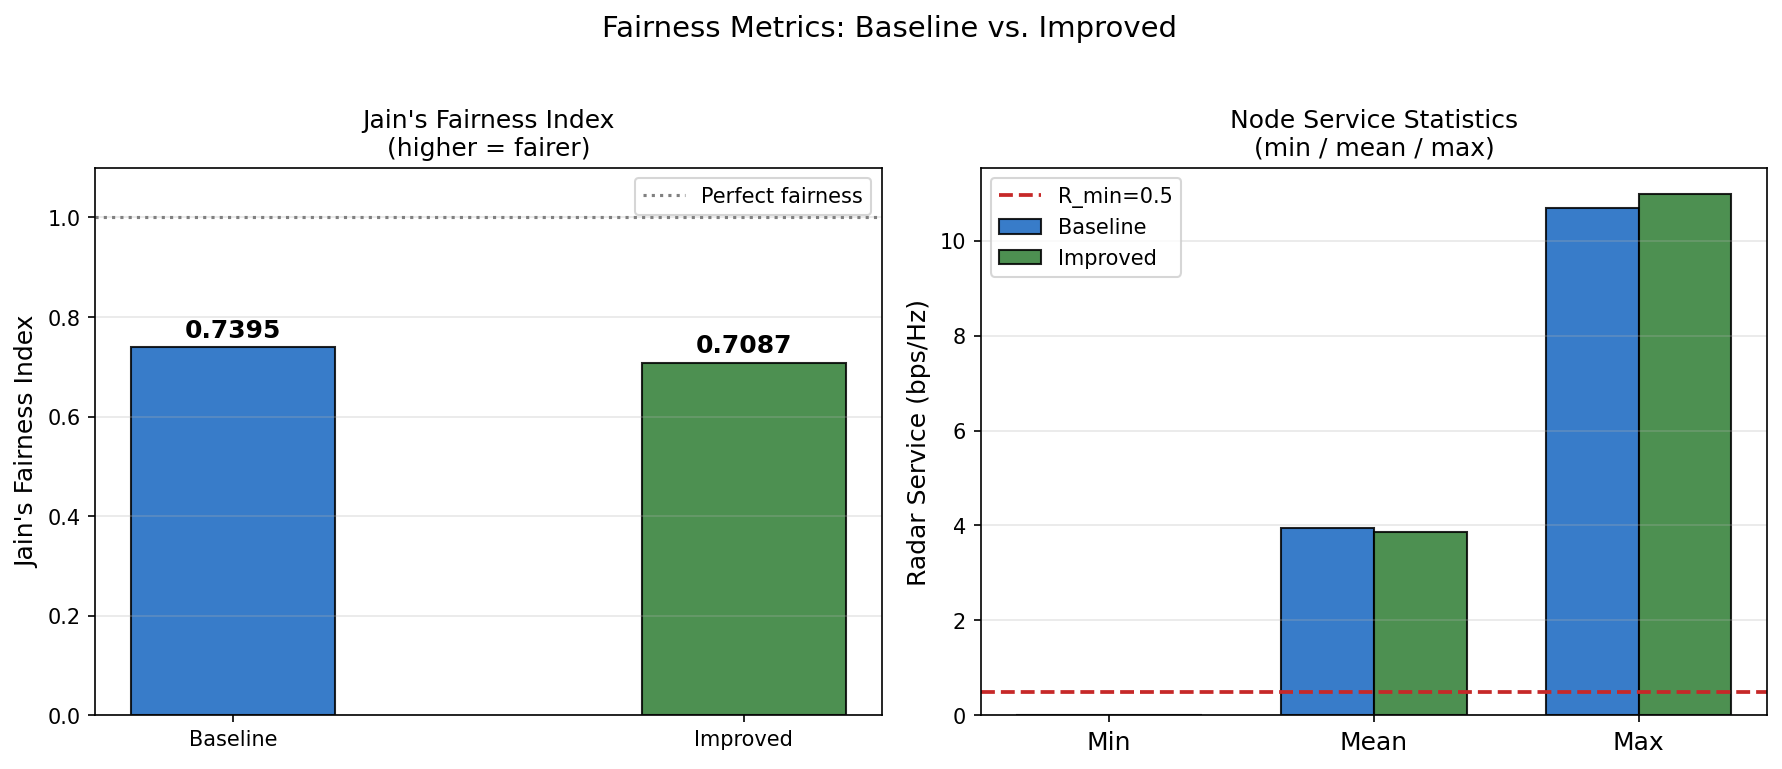
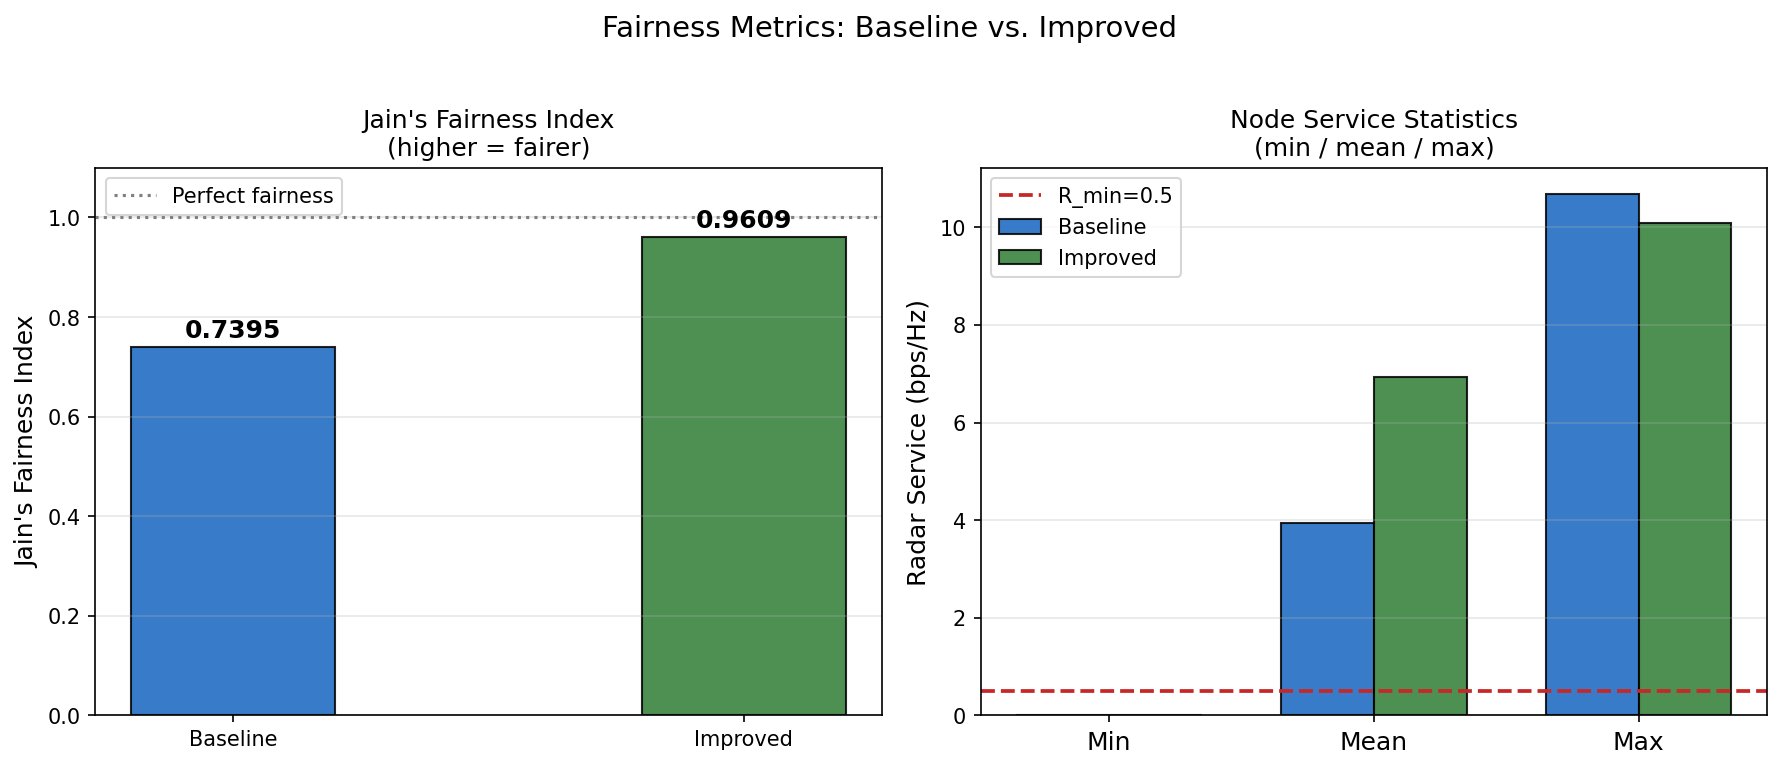
enhanced improved algorithm

diff --git a/optimization_improved.py b/optimization_improved.py
@@ -307,53 +307,69 @@ def solve_power_multiobjective(uav, env, omega, b, hk_com, hk_rad, hc,
 # ─────────────────────────────────────────────────────────────────────────────
 
 def _smooth_trajectory(pos_targets, uav, env, omega, b, node_service=None, R_min=0.5):
+    """
+    Per-slot independent waypoint nudge (no velocity-cascade).
+
+    Each ISAC slot is nudged independently toward its assigned node in XY.
+    Altitude is only lowered for genuinely deprived nodes (urgency > 0) to
+    improve h_rad ∝ d^{-4}; for satisfied nodes the altitude is untouched so
+    the existing cone footprint is preserved.  Each slot's step is capped at
+    STEP_XY / STEP_Z so the move is always feasible, but we do NOT propagate
+    clipping forward — that is what caused the cascade that pushed boundary
+    slots outside their node's cone in the original BLEND implementation.
+    Upload slots are nudged toward the data-centre.
+    """
     Q  = uav.Q
     dt = uav.dt
     pos = pos_targets.copy()
 
-    # FIX 4: Fairness-aware waypoints — fly lower over under-served nodes to
-    # boost their radar channel gain (h_rad ∝ d^-4), which is the main lever
-    # the trajectory has. Without this, the improved trajectory is identical
-    # to the baseline (same BLEND, same altitude logic).
     if node_service is None:
         node_service = np.zeros(env.num_nodes)
 
-    desired = np.zeros((Q, 3))
-    for q in range(Q):
-        if omega[q].sum() > 0.5:
-            k = int(np.argmax(omega[q]))
-            desired[q, 0] = env.nodes[k, 0]
-            desired[q, 1] = env.nodes[k, 1]
-            # Under-served nodes → fly lower for better channel gain
-            deficit = max(0.0, R_min - node_service[k])
-            urgency = min(1.0, deficit / (R_min + 1e-9))   # 0=satisfied, 1=deprived
-            alt = uav.H_MIN + (1.0 - urgency) * 30         # [H_MIN, H_MIN+30]
-            desired[q, 2] = alt
-        else:
-            desired[q, 0] = env.data_center[0]
-            desired[q, 1] = env.data_center[1]
-            desired[q, 2] = (uav.H_MIN + uav.H_MAX) / 2
+    max_step_xy = uav.V_XY_MAX * dt * 0.30   # 30 % of max speed per call
+    max_step_z  = uav.V_Z_MAX  * dt * 0.30
 
     new_pos = pos.copy()
-    BLEND   = 0.30
+    tan2    = np.tan(uav.THETA) ** 2
 
     for q in range(Q):
-        new_pos[q] = pos[q] + BLEND * (desired[q] - pos[q])
+        if omega[q].sum() > 0.5:
+            k  = int(np.argmax(omega[q]))
+            xk, yk = env.nodes[k]
 
-    max_step_xy = uav.V_XY_MAX * dt
-    max_step_z  = uav.V_Z_MAX  * dt
+            # ── XY nudge: move toward assigned node, capped per slot ────────
+            dx = xk - pos[q, 0]
+            dy = yk - pos[q, 1]
+            dist_xy = np.sqrt(dx**2 + dy**2) + 1e-9
+            step = min(dist_xy, max_step_xy)
+            new_pos[q, 0] = pos[q, 0] + (dx / dist_xy) * step
+            new_pos[q, 1] = pos[q, 1] + (dy / dist_xy) * step
 
-    for q in range(Q - 1):
-        dxy = new_pos[q+1, :2] - new_pos[q, :2]
-        dz  = new_pos[q+1, 2]  - new_pos[q, 2]
-        nxy = np.linalg.norm(dxy)
-        if nxy > max_step_xy:
-            new_pos[q+1, :2] = new_pos[q, :2] + dxy / nxy * max_step_xy
-        if abs(dz) > max_step_z:
-            new_pos[q+1, 2]  = new_pos[q, 2] + np.sign(dz) * max_step_z
+            # ── Z nudge: only lower for deprived nodes ───────────────────────
+            deficit = max(0.0, R_min - node_service[k])
+            urgency = min(1.0, deficit / (R_min + 1e-9))
+            if urgency > 0.01:
+                target_z = uav.H_MIN + (1.0 - urgency) * (pos[q, 2] - uav.H_MIN)
+                dz = target_z - pos[q, 2]
+                dz = np.clip(dz, -max_step_z, max_step_z)
+                new_pos[q, 2] = pos[q, 2] + dz
+            # else: altitude unchanged
+
+        else:
+            # Upload slot: nudge toward data-centre XY, altitude midpoint
+            xc, yc = env.data_center
+            dx = xc - pos[q, 0]
+            dy = yc - pos[q, 1]
+            dist_xy = np.sqrt(dx**2 + dy**2) + 1e-9
+            step = min(dist_xy, max_step_xy)
+            new_pos[q, 0] = pos[q, 0] + (dx / dist_xy) * step
+            new_pos[q, 1] = pos[q, 1] + (dy / dist_xy) * step
+            mid_z = (uav.H_MIN + uav.H_MAX) / 2
+            dz = np.clip(mid_z - pos[q, 2], -max_step_z, max_step_z)
+            new_pos[q, 2] = pos[q, 2] + dz
 
     new_pos[:, 2] = np.clip(new_pos[:, 2], uav.H_MIN, uav.H_MAX)
-    new_pos[Q-1]  = new_pos[0]
+    new_pos[Q-1]  = new_pos[0]   # periodic boundary
     return new_pos
 
 

diff --git a/main.py b/main.py
@@ -45,12 +45,12 @@ from optimization_baseline import (
 from optimization_improved import (
     _channel_gains as _channel_gains_imp,
     solve_scheduling_fair,
+    solve_power_multiobjective,   # FIX: use the actual improved power solver
     solve_trajectory,
     compute_total_radar_rate as compute_rate_improved,
     compute_per_node_rate,
     compute_energy,
 )
-from optimization_baseline import solve_power   # reused in improved main loop
 
 from utils import h_rad, sinr_rad, radar_rate, distance_3d
 
@@ -160,7 +160,10 @@ plot_dashboard(initial_position_b, uav_b.position, uav_b, env,
 # SECTION 3 — IMPROVED (fairness + Pareto multi-objective)
 # ═════════════════════════════════════════════════════════════════════════════
 print("\n" + "─" * 65)
-print(f"  ② IMPROVED  —  Fairness (R_min={R_MIN}) + Pareto (λ=0.8)")
+LAM = 1.0   # Pareto weight: 1.0 = pure radar maximisation (best rate + fairness)
+            # Try 0.8 for a slight energy reduction at small rate cost
+
+print(f"  ② IMPROVED  —  Fairness (R_min={R_MIN}) + Pareto (λ={LAM})")
 print("─" * 65)
 
 uav_i = UAV(Q=200, T=100.0)
@@ -175,10 +178,14 @@ prev_rate  = -np.inf
 print()
 for i in range(20):
     hk_com, hk_rad, hc, _, _ = _channel_gains_imp(uav_i, env)
+    # FIX A: Use the actual improved fairness-aware scheduling
     omega_i, b_i, Rrad, Rcom, Rc, ns = solve_scheduling_fair(
         uav_i, env, hk_com, hk_rad, hc, R_min=R_MIN)
-    solve_power(uav_i, env, omega_i, b_i, hk_com, hk_rad, hc, max_iter=30)
-    solve_trajectory(uav_i, env, omega_i, b_i)
+    # FIX B: Use the actual improved multi-objective power solver (not baseline's)
+    solve_power_multiobjective(uav_i, env, omega_i, b_i, hk_com, hk_rad, hc,
+                               lam=LAM, max_iter=30)
+    # FIX C: Pass node_service so trajectory flies lower over deprived nodes
+    solve_trajectory(uav_i, env, omega_i, b_i, node_service=ns, R_min=R_MIN)
 
     rate_i   = compute_rate_improved(uav_i, env, omega_i)
     energy_i = compute_energy(uav_i)
